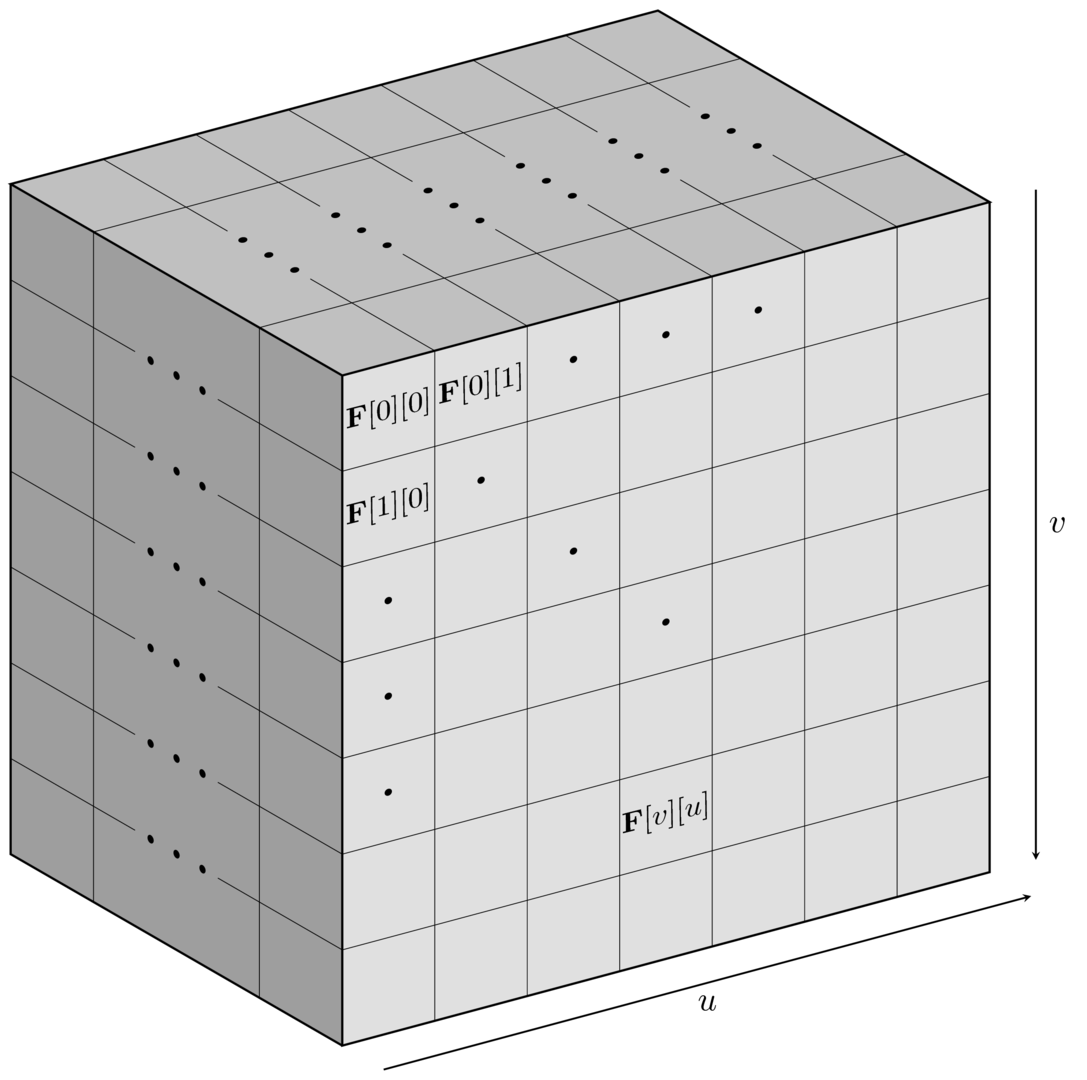
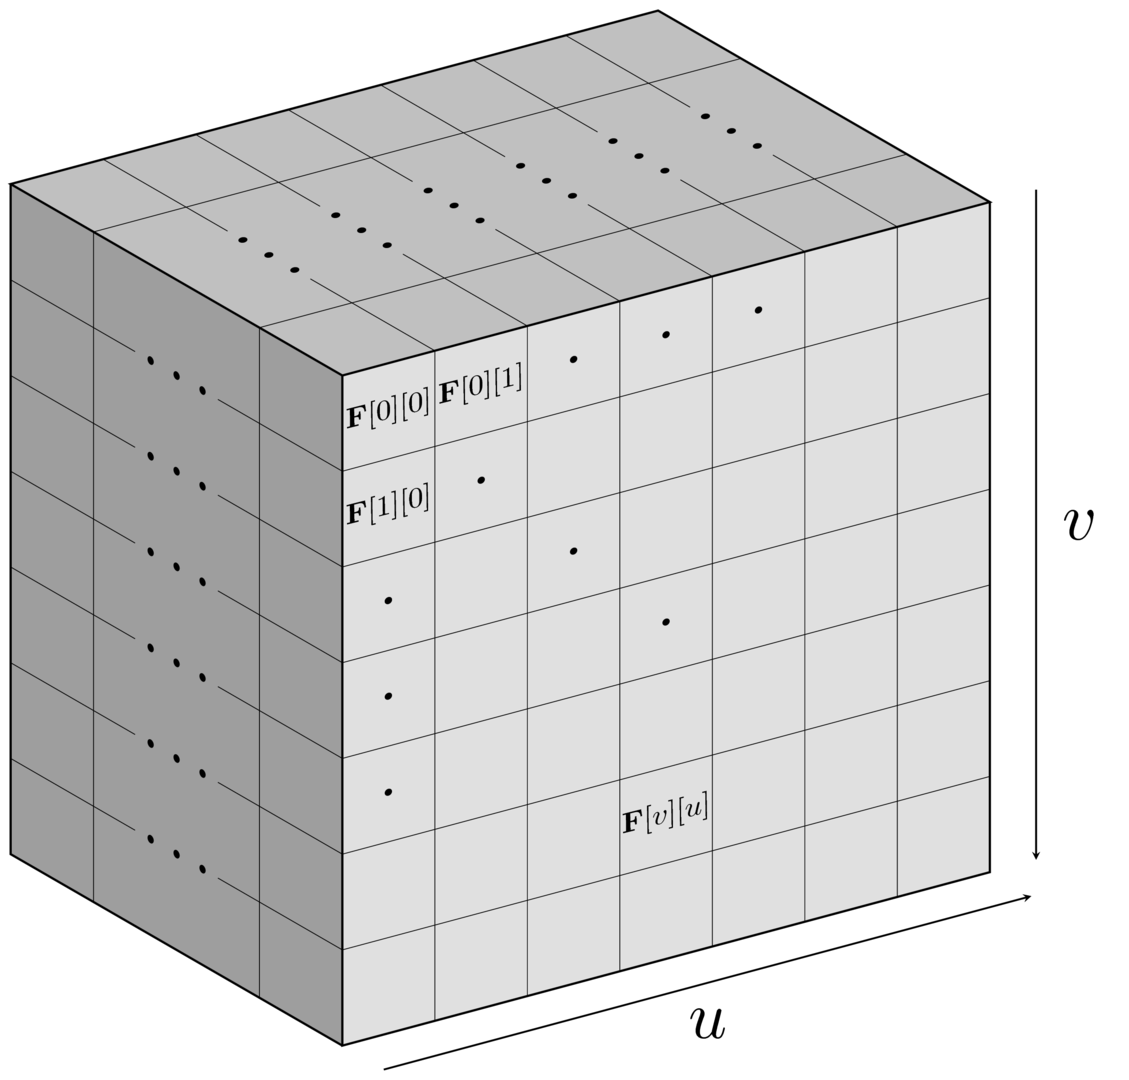
changed font size of label

diff --git a/report/images/weights_input_dataset.tex b/report/images/weights_input_dataset.tex
@@ -45,8 +45,8 @@
         \draw[line width=1.25pt] (B) -- (O) -- (D);
         
         % dimension labels
-        \draw [->, line width=1.05pt] (0, 0, \hei+.5)  -- (\len, 0, \hei+.5)   node [midway, below, scale=2] {$u$};
-        \draw [->, line width=1.05pt] (\len+.5, \bre, \hei)  -- (\len+.5, 0, \hei)   node [midway, right, scale=2] {$v$};
+        \draw [->, line width=1.05pt] (0, 0, \hei+.5)  -- (\len, 0, \hei+.5)   node [midway, below, scale=4] {$u$};
+        \draw [->, line width=1.05pt] (\len+.5, \bre, \hei)  -- (\len+.5, 0, \hei)   node [midway, right, scale=4] {$v$};
         
         % labels on the faces
         \node [draw=none, sloped, xslant=.25, rotate=15, scale=1.75] at (0.5, \bre-.5, \hei){$\mathbf{F}[0][0]$};
